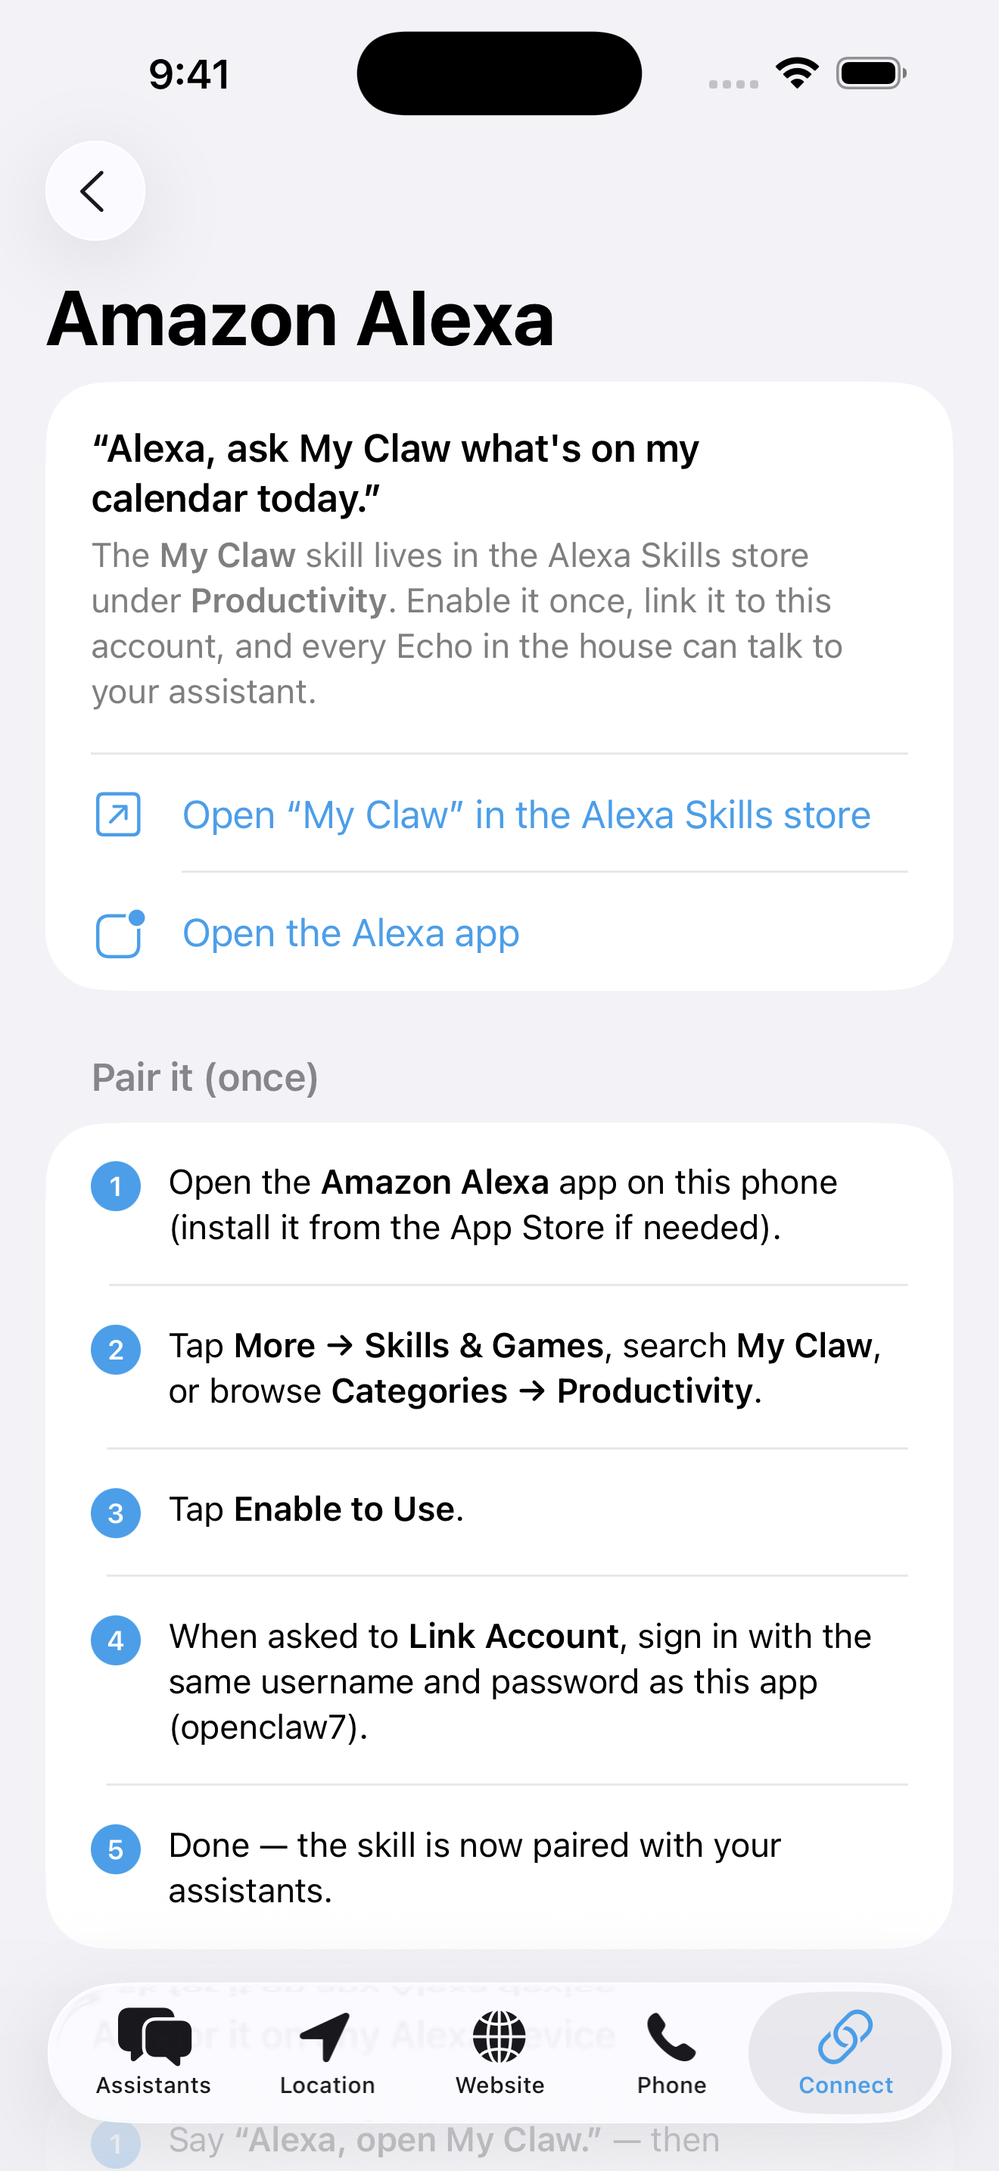
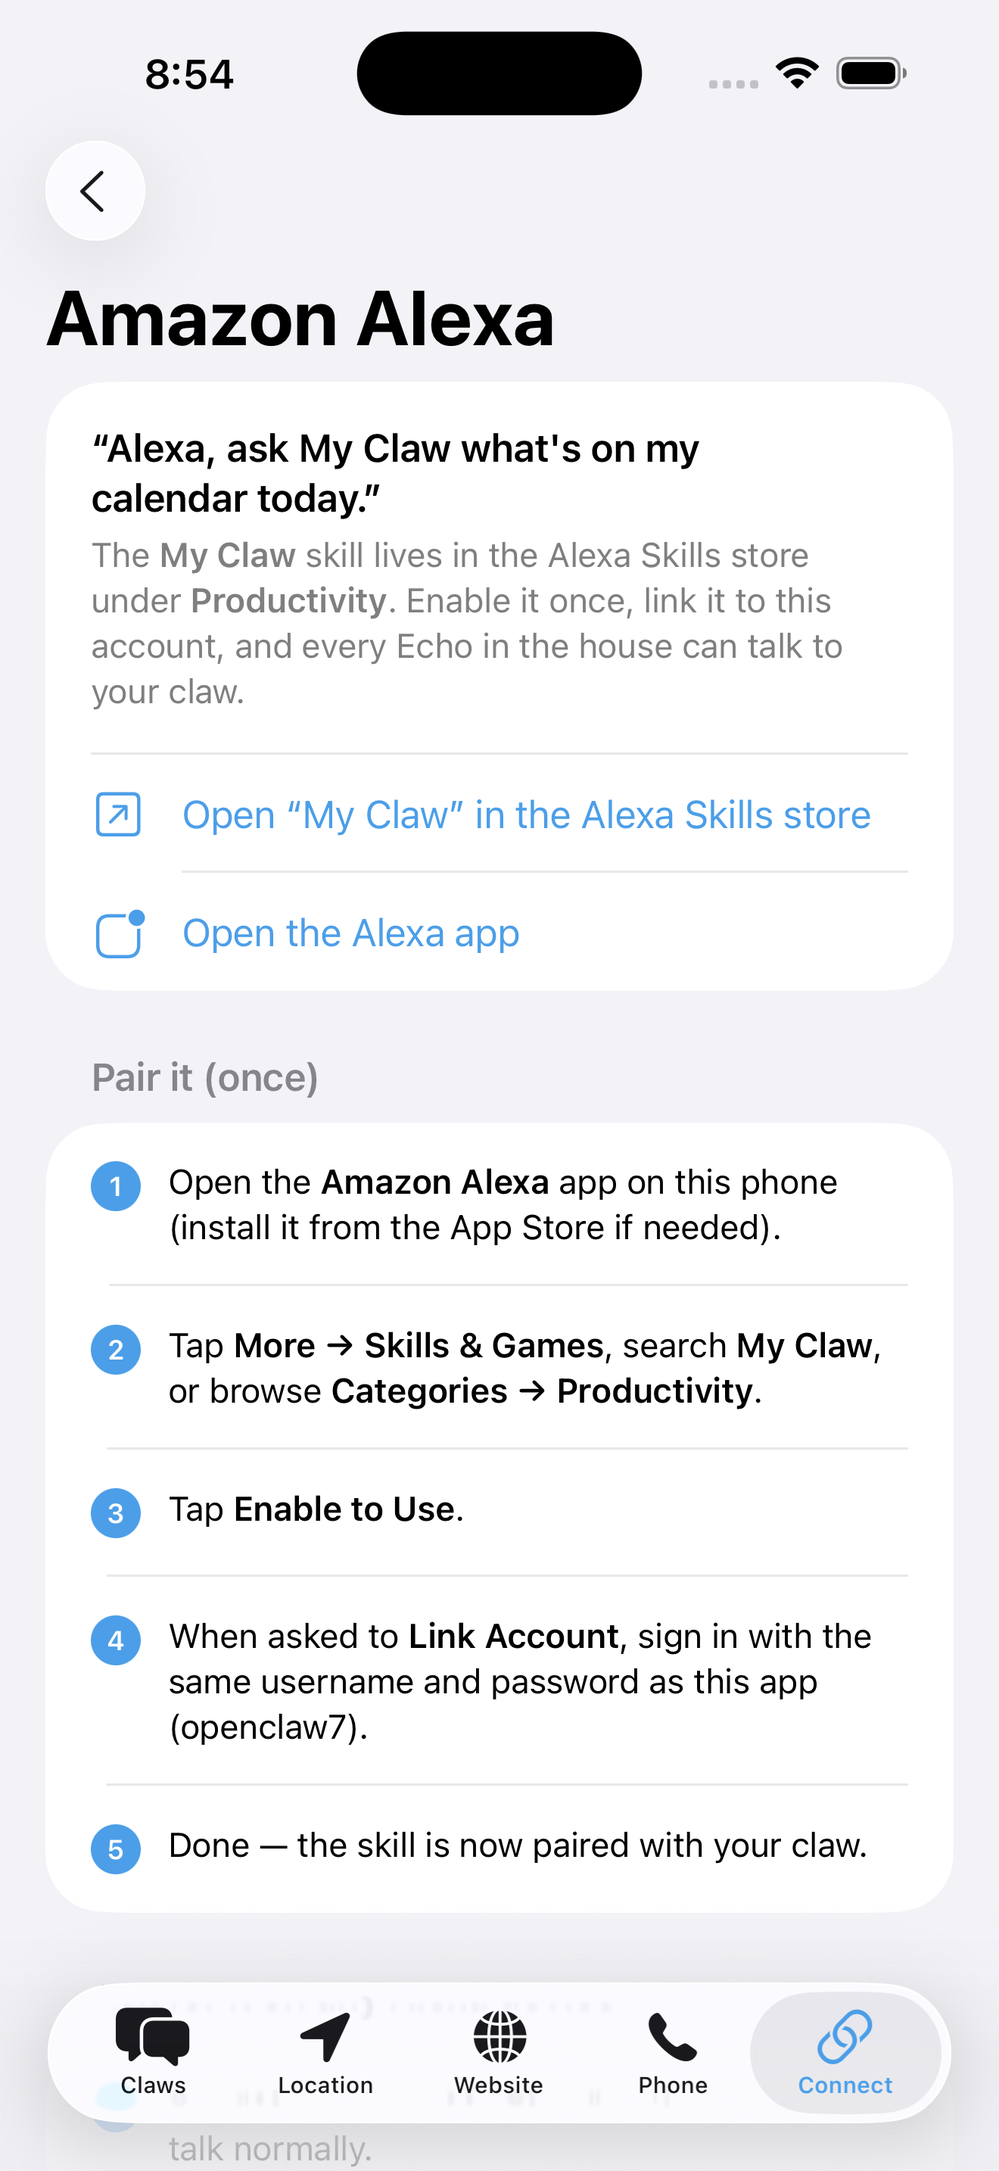
Revert "AI Assistant iOS: product-neutral copy for OpenClaw + Hermes, dual-product store metadata, new screenshots"
This reverts commit 73cfe3fb55f2244fd671bf51024f8b1d199a299c.

diff --git a/openclaw-iphone/ios/OpenClaw/Views/ConnectView.swift b/openclaw-iphone/ios/OpenClaw/Views/ConnectView.swift
@@ -1,6 +1,6 @@
 import SwiftUI
 
-/// Other ways to reach your assistant: a Telegram bot and the Alexa "My Claw" skill.
+/// Other ways to reach your claw: a Telegram bot and the Alexa "My Claw" skill.
 struct ConnectView: View {
     @Environment(AppModel.self) private var model
     @State private var path: [String] = ["alexa", "telegram"].contains(DemoMode.screen ?? "") ? [DemoMode.screen!] : []
@@ -8,7 +8,7 @@ struct ConnectView: View {
     var body: some View {
         NavigationStack(path: $path) {
             List {
-                Section("Reach your assistant from…") {
+                Section("Reach your claw from…") {
                     NavigationLink(value: "telegram") {
                         Label("Telegram", systemImage: "paperplane.fill")
                     }
@@ -55,17 +55,17 @@ struct TelegramView: View {
                 }
             }
 
-            Section("Set up a Telegram bot for your assistant") {
+            Section("Set up a Telegram bot for your claw") {
                 Step(1, "Install Telegram on this phone and sign in.")
                 Step(2, "In Telegram, search for **BotFather** (blue checkmark) and open it.")
                 Step(3, "Send **/newbot**. Give it a name (e.g. “Ana's Claw”) and a username ending in **bot** (e.g. `anas_claw_bot`).")
                 Step(4, "BotFather replies with a **token** like `123456:ABC-…`. Copy it.")
-                Step(5, "Come back to this app, open the **Assistants** tab and paste the token to your assistant: “here is my Telegram bot token: …”. It connects itself.")
-                Step(6, "In Telegram, open your new bot and press **Start**. Say hi — that's your assistant.")
+                Step(5, "Come back to this app, open the **Claws** tab and paste the token to your claw: “here is my Telegram bot token: …”. It connects itself.")
+                Step(6, "In Telegram, open your new bot and press **Start**. Say hi — that's your claw.")
             }
 
             Section("Good to know") {
-                Text("Only you can talk to your bot: your assistant remembers the first Telegram account that says hi and ignores strangers. Anything you tell it on Telegram, in this app, or on the phone is the same assistant with the same memory.")
+                Text("Only you can talk to your bot: your claw remembers the first Telegram account that says hi and ignores strangers. Anything you tell it on Telegram, in this app, or on the phone is the same claw with the same memory.")
                     .font(.footnote).foregroundStyle(.secondary)
                 Button {
                     if let url = URL(string: "https://t.me/BotFather") { openURL(url) }
@@ -88,7 +88,7 @@ struct AlexaView: View {
                 VStack(alignment: .leading, spacing: 6) {
                     Text("“Alexa, ask My Claw what's on my calendar today.”")
                         .font(.headline)
-                    Text("The **My Claw** skill lives in the Alexa Skills store under **Productivity**. Enable it once, link it to this account, and every Echo in the house can talk to your assistant.")
+                    Text("The **My Claw** skill lives in the Alexa Skills store under **Productivity**. Enable it once, link it to this account, and every Echo in the house can talk to your claw.")
                         .font(.subheadline).foregroundStyle(.secondary)
                 }
                 .padding(.vertical, 4)
@@ -107,14 +107,14 @@ struct AlexaView: View {
                 Step(2, "Tap **More → Skills & Games**, search **My Claw**, or browse **Categories → Productivity**.")
                 Step(3, "Tap **Enable to Use**.")
                 Step(4, "When asked to **Link Account**, sign in with the same username and password as this app (\(model.me?.username ?? "your openclaw login")).")
-                Step(5, "Done — the skill is now paired with your assistant\(model.claws.count > 1 ? "s" : "").")
+                Step(5, "Done — the skill is now paired with your claw\(model.claws.count > 1 ? "s" : "").")
             }
 
             Section("Ask for it on any Alexa device") {
                 Step(1, "Say **“Alexa, open My Claw.”** — then talk normally.")
                 Step(2, "Or in one breath: **“Alexa, ask My Claw to call the dentist and book a cleaning.”**")
                 Step(3, "**“Alexa, tell My Claw I'm leaving now.”** — handy with location sharing on.")
-                Step(4, "**“Alexa, ask My Claw what's new.”** — your assistant reads out anything waiting for you.")
+                Step(4, "**“Alexa, ask My Claw what's new.”** — your claw reads out anything waiting for you.")
             }
 
             Section("Troubleshooting") {

diff --git a/openclaw-iphone/ios/OpenClaw/Views/LocationView.swift b/openclaw-iphone/ios/OpenClaw/Views/LocationView.swift
@@ -2,7 +2,7 @@ import CoreLocation
 import MapKit
 import SwiftUI
 
-/// The consent page: "Can your assistant(s) know where you are?" Once yes, the phone
+/// The consent page: "Can your claw(s) know where you are?" Once yes, the phone
 /// reports its position every 5 minutes; a claw asks the backend when it needs it.
 struct LocationView: View {
     @Environment(AppModel.self) private var model
@@ -12,9 +12,9 @@ struct LocationView: View {
             List {
                 Section {
                     VStack(alignment: .leading, spacing: 8) {
-                        Text("Can your assistants know where you are?")
+                        Text("Can your claws know where you are?")
                             .font(.headline)
-                        Text("If you say yes, this phone sends its latitude and longitude to your assistants every 5 minutes — even in the background. Your assistants use it for things like \"what's open near me\", \"how far am I from home\", or \"text my wife my ETA\".")
+                        Text("If you say yes, this phone sends its latitude and longitude to your claws every 5 minutes — even in the background. Your claws use it for things like \"what's open near me\", \"how far am I from home\", or \"text my wife my ETA\".")
                             .font(.subheadline)
                             .foregroundStyle(.secondary)
                         Text(clawNames)
@@ -41,7 +41,7 @@ struct LocationView: View {
                         permissionRow
                     }
 
-                    Section("Last sent to your assistants") {
+                    Section("Last sent to your claws") {
                         if let latest = model.locationSharing?.latest {
                             Map(initialPosition: .region(MKCoordinateRegion(
                                 center: CLLocationCoordinate2D(latitude: latest.latitude, longitude: latest.longitude),
@@ -56,7 +56,7 @@ struct LocationView: View {
                                 LabeledContent("Accuracy", value: "±\(Int(acc)) m")
                             }
                             if model.locationSharing?.lapsed == true {
-                                Label("Your assistants see this as stale — no update in over 15 minutes.", systemImage: "exclamationmark.triangle")
+                                Label("Your claws see this as stale — no update in over 15 minutes.", systemImage: "exclamationmark.triangle")
                                     .font(.footnote).foregroundStyle(.orange)
                             }
                         } else {
@@ -71,7 +71,7 @@ struct LocationView: View {
                 }
 
                 Section("Privacy") {
-                    Text("Only your own assistants can ask for your location, and only the most recent position is kept. Say no or stop sharing at any time and the last position is forgotten.")
+                    Text("Only your own claws can ask for your location, and only the most recent position is kept. Say no or stop sharing at any time and the last position is forgotten.")
                         .font(.footnote)
                         .foregroundStyle(.secondary)
                 }
@@ -84,7 +84,7 @@ struct LocationView: View {
     private var clawNames: String {
         let names = model.claws.map(\.displayName)
         switch names.count {
-        case 0: return "No assistant assigned yet."
+        case 0: return "No claw assigned yet."
         case 1: return "Shared with \(names[0])."
         default: return "Shared with \(names.joined(separator: ", "))."
         }

diff --git a/openclaw-iphone/ios/OpenClaw/Views/LoginView.swift b/openclaw-iphone/ios/OpenClaw/Views/LoginView.swift
@@ -12,13 +12,12 @@ struct LoginView: View {
             Form {
                 Section {
                     VStack(spacing: 8) {
-                        Image(systemName: "sparkles.rectangle.stack.fill")
-                            .font(.system(size: 60))
+                        Image(systemName: "pawprint.circle.fill")
+                            .font(.system(size: 64))
                             .foregroundStyle(.tint)
-                        Text("8Examples AI Assistant")
-                            .font(.title.bold())
-                            .multilineTextAlignment(.center)
-                        Text("Sign in with your assistant’s username and password — the same ones you use at chat.8examples.com.")
+                        Text("My Claw")
+                            .font(.largeTitle.bold())
+                        Text("Sign in with your claw’s username and password — the same ones you use at chat.8examples.com.")
                             .font(.footnote)
                             .foregroundStyle(.secondary)
                             .multilineTextAlignment(.center)
@@ -28,7 +27,7 @@ struct LoginView: View {
                 }
 
                 Section {
-                    TextField("Username (e.g. openclaw7 or hermes3)", text: $username)
+                    TextField("Username (e.g. openclaw7)", text: $username)
                         .textContentType(.username)
                         .textInputAutocapitalization(.never)
                         .autocorrectionDisabled()

diff --git a/openclaw-iphone/ios/OpenClaw/Views/PhoneView.swift b/openclaw-iphone/ios/OpenClaw/Views/PhoneView.swift
@@ -25,7 +25,7 @@ struct PhoneView: View {
         return [
             "Check my SMS every 15 minutes and tell me about anything important.",
             "Phone 555-555-1234 and reserve the next available appointment for me.",
-            "Call \(number) while you drive — just talk to your assistant hands-free.",
+            "Call \(number) while you drive — just talk to your claw hands-free.",
             "Text me a reminder 30 minutes before every appointment tomorrow.",
             "Call the pharmacy and ask if my prescription is ready.",
             "If anyone texts you asking for me, reply that I'll get back to them today.",
@@ -52,7 +52,7 @@ struct PhoneView: View {
                                 .buttonStyle(.bordered)
                             }
                         }
-                        Text("Save it in your contacts — you can call or text your assistant like a person, and it answers.")
+                        Text("Save it in your contacts — you can call or text your claw like a person, and it answers.")
                             .font(.footnote).foregroundStyle(.secondary)
                     } else {
                         Text("No number yet. Ask \(claw.displayName) below: “register a phone number for yourself”.")

diff --git a/openclaw-iphone/ios/OpenClaw/Models/DemoMode.swift b/openclaw-iphone/ios/OpenClaw/Models/DemoMode.swift
@@ -33,12 +33,9 @@ final class DemoURLProtocol: URLProtocol {
         switch path {
         case "/api/mobile/queries/me":
             return """
-            {"username":"openclaw7","claws":[
-              {"clawId":"openclaw7","phoneNumber":"+14035550142",
-               "website":{"domain":"anasbakery.ca","fusenvSubdomain":"anas-bakery","url":"https://anasbakery.ca","fusenvUrl":"https://anas-bakery.fusenv.com"},
-               "telegramBotUsername":"anas_claw_bot"},
-              {"clawId":"hermes3","phoneNumber":"+14035550188",
-               "website":null,"telegramBotUsername":null}]}
+            {"username":"openclaw7","claws":[{"clawId":"openclaw7","phoneNumber":"+14035550142",
+              "website":{"domain":"anasbakery.ca","fusenvSubdomain":"anas-bakery","url":"https://anasbakery.ca","fusenvUrl":"https://anas-bakery.fusenv.com"},
+              "telegramBotUsername":"anas_claw_bot"}]}
             """
         case "/api/mobile/queries/location-sharing":
             return """

diff --git a/openclaw-iphone/ios/OpenClaw/Views/RootView.swift b/openclaw-iphone/ios/OpenClaw/Views/RootView.swift
@@ -23,7 +23,7 @@ struct MainTabView: View {
     var body: some View {
         TabView(selection: $tab) {
             ClawsView()
-                .tabItem { Label("Assistants", systemImage: "bubble.left.and.bubble.right") }
+                .tabItem { Label("Claws", systemImage: "bubble.left.and.bubble.right") }
                 .tag("claws")
             LocationView()
                 .tabItem { Label("Location", systemImage: "location") }
@@ -90,9 +90,9 @@ struct TipRow: View {
 struct EmptyClawsView: View {
     var body: some View {
         ContentUnavailableView(
-            "No assistant assigned yet",
+            "No claw assigned yet",
             systemImage: "questionmark.circle",
-            description: Text("Your account isn't linked to an AI assistant yet. Ask the operator to assign one.")
+            description: Text("Your account isn't linked to an OpenClaw assistant. Ask the operator to assign one.")
         )
     }
 }

diff --git a/openclaw-iphone/ios/OpenClaw/Views/ConversationView.swift b/openclaw-iphone/ios/OpenClaw/Views/ConversationView.swift
@@ -135,7 +135,7 @@ struct MessageBubble: View {
                     if message.isOwner {
                         switch message.status {
                         case "awaiting-reply": Image(systemName: "clock")
-                        case "failed": Label("Couldn't reach your assistant", systemImage: "exclamationmark.triangle").foregroundStyle(.red)
+                        case "failed": Label("Couldn't reach your claw", systemImage: "exclamationmark.triangle").foregroundStyle(.red)
                         default: Image(systemName: "checkmark")
                         }
                     }

diff --git a/openclaw-iphone/ios/OpenClaw/Models/API.swift b/openclaw-iphone/ios/OpenClaw/Models/API.swift
@@ -25,11 +25,10 @@ struct ClawCard: Codable, Identifiable, Hashable {
         return "+1 (\(a)) \(b)-\(c)"
     }
 
-    /// "openclaw7" → "OpenClaw 7", "hermes3" → "Hermes 3"
+    /// "openclaw7" → "Claw 7"
     var displayName: String {
         let digits = clawId.drop(while: { !$0.isNumber })
-        if digits.isEmpty { return clawId }
-        return clawId.hasPrefix("hermes") ? "Hermes \(digits)" : "OpenClaw \(digits)"
+        return digits.isEmpty ? clawId : "Claw \(digits)"
     }
 }
 

diff --git a/openclaw-iphone/ios/OpenClaw/Views/ClawsView.swift b/openclaw-iphone/ios/OpenClaw/Views/ClawsView.swift
@@ -26,7 +26,7 @@ struct ClawsView: View {
                     }
                 }
             }
-            .navigationTitle("Your assistants")
+            .navigationTitle("Your claws")
             .navigationDestination(for: ClawCard.self) { claw in
                 ConversationView(claw: claw)
             }

diff --git a/openclaw-iphone/ios/tools/submit.py b/openclaw-iphone/ios/tools/submit.py
@@ -22,37 +22,37 @@ SCREENSHOT_DIR = os.path.join(IOS_DIR, "Screenshots", "iphone-6.9")
 SITE = "https://8examples.com"
 
 COPYRIGHT = "© 2026 8Examples"
-SUBTITLE = "Chat, calls and location"
-PROMO = ("Chat with your 8Examples AI assistant — OpenClaw or Hermes — share your location so it "
-         "can help with what's near you, and set up its phone, website, Telegram bot and Alexa skill.")
-KEYWORDS = "8examples,assistant,AI,openclaw,hermes,agent,chat,phone,website,telegram,alexa,business"  # ≤100 chars
+SUBTITLE = "Talk to your OpenClaw assistant"
+PROMO = ("Chat with your claw, share your location so it can help with what's near you, "
+         "and set up its phone number, website, Telegram bot and Alexa skill.")
+KEYWORDS = "openclaw,assistant,AI,claw,chat,phone,website,telegram,alexa,location,business,8examples"  # ≤100 chars
 WHATS_NEW = "First release."
-DESCRIPTION = """8Examples AI Assistant is the companion app for your managed AI worker from 8Examples — whether it is an OpenClaw or a Hermes assistant. It is the AI that answers your texts, makes your phone calls, keeps your website current and handles your paperwork.
+DESCRIPTION = """My Claw is the companion app for your managed OpenClaw assistant from 8Examples: the AI worker that answers your texts, makes your phone calls, keeps your website current and handles your paperwork.
 
-Sign in with the same username and password you use for your assistant's web chat at 8examples.com. If you have more than one assistant, they all show up.
+Sign in with the same username and password you use for your claw's web chat. If you have more than one claw, they all show up.
 
-CHAT WITH YOUR ASSISTANT
-One conversation per assistant, right in the app. Ask it to check your messages, book an appointment, draft a reply or change your website. Replies arrive in the same thread, and your assistant remembers what you talked about on the phone, on Telegram and on the web.
+CHAT WITH YOUR CLAW
+One conversation per claw, right in the app. Ask it to check your messages, book an appointment, draft a reply or change your website. Replies arrive in the same thread, and your claw remembers what you talked about on the phone, on Telegram and on the web.
 
 LET IT KNOW WHERE YOU ARE (OPTIONAL)
-Say yes and your phone shares its location with your assistant every five minutes, even in the background, so it can answer things like "what's open near me" or "text my ETA". Say no and it never asks again. Stop sharing at any time; the last position is forgotten.
+Say yes and your phone shares its location with your claw every five minutes, even in the background, so it can answer things like "what's open near me" or "text my ETA". Say no and it never asks again. Stop sharing at any time; the last position is forgotten.
 
 YOUR WEBSITE
-See your domain and your fusenv.com address, open the live site in Safari, and tell your assistant what to change in plain words. Edits go live within a couple of minutes.
+See your domain and your fusenv.com address, open the live site in Safari, and tell your claw what to change in plain words. Edits go live within a couple of minutes.
 
-YOUR ASSISTANT'S PHONE NUMBER
-Call or text your assistant like a person. Tips show you what to ask for: "check my SMS every 15 minutes", "phone the clinic and reserve the next appointment", "call me while I drive".
+YOUR CLAW'S PHONE NUMBER
+Call or text your claw like a person. Tips show you what to ask for: "check my SMS every 15 minutes", "phone the clinic and reserve the next appointment", "call me while I drive".
 
 TELEGRAM AND ALEXA
-Step-by-step instructions to give your assistant a Telegram bot, and to enable the Alexa skill so every Echo in the house can talk to it.
+Step-by-step instructions to give your claw a Telegram bot, and to enable the "My Claw" Alexa skill so every Echo in the house can talk to it.
 
-REQUIRES A MANAGED 8EXAMPLES SUBSCRIPTION
-The app only works with an assistant from 8examples.com/openclaw (OpenClaw) or the Hermes AI Worker offering. The app itself is free.
+REQUIRES A MANAGED OPENCLAW SUBSCRIPTION
+My Claw only works with an assistant from 8examples.com/openclaw. The app itself is free.
 
 PRIVACY
-Your location is stored only if you say yes, only the most recent position is kept, and only your own assistant can read it. Terms: 8examples.com/openclaw/terms. Privacy: 8examples.com/openclaw/privacy."""
+Your location is stored only if you say yes, only the most recent position is kept, and only your own claw can read it. Terms: 8examples.com/openclaw/terms. Privacy: 8examples.com/openclaw/privacy."""
 
-REVIEW_NOTES = """8Examples AI Assistant is the companion app for a paid, managed AI assistant sold at https://8examples.com/openclaw (the OpenClaw product) and as the Hermes AI Worker. Every customer gets one assistant running on our servers; this app lets them talk to it and configure it. There is nothing to buy in the app.
+REVIEW_NOTES = """My Claw is the companion app for a paid, managed AI assistant ("claw") sold at https://8examples.com/openclaw. Every customer gets one assistant running on our servers; this app lets them talk to it and configure it. There is nothing to buy in the app.
 
 DEMO ACCOUNT (a live assistant reserved for review):
     Username: openclaw1
